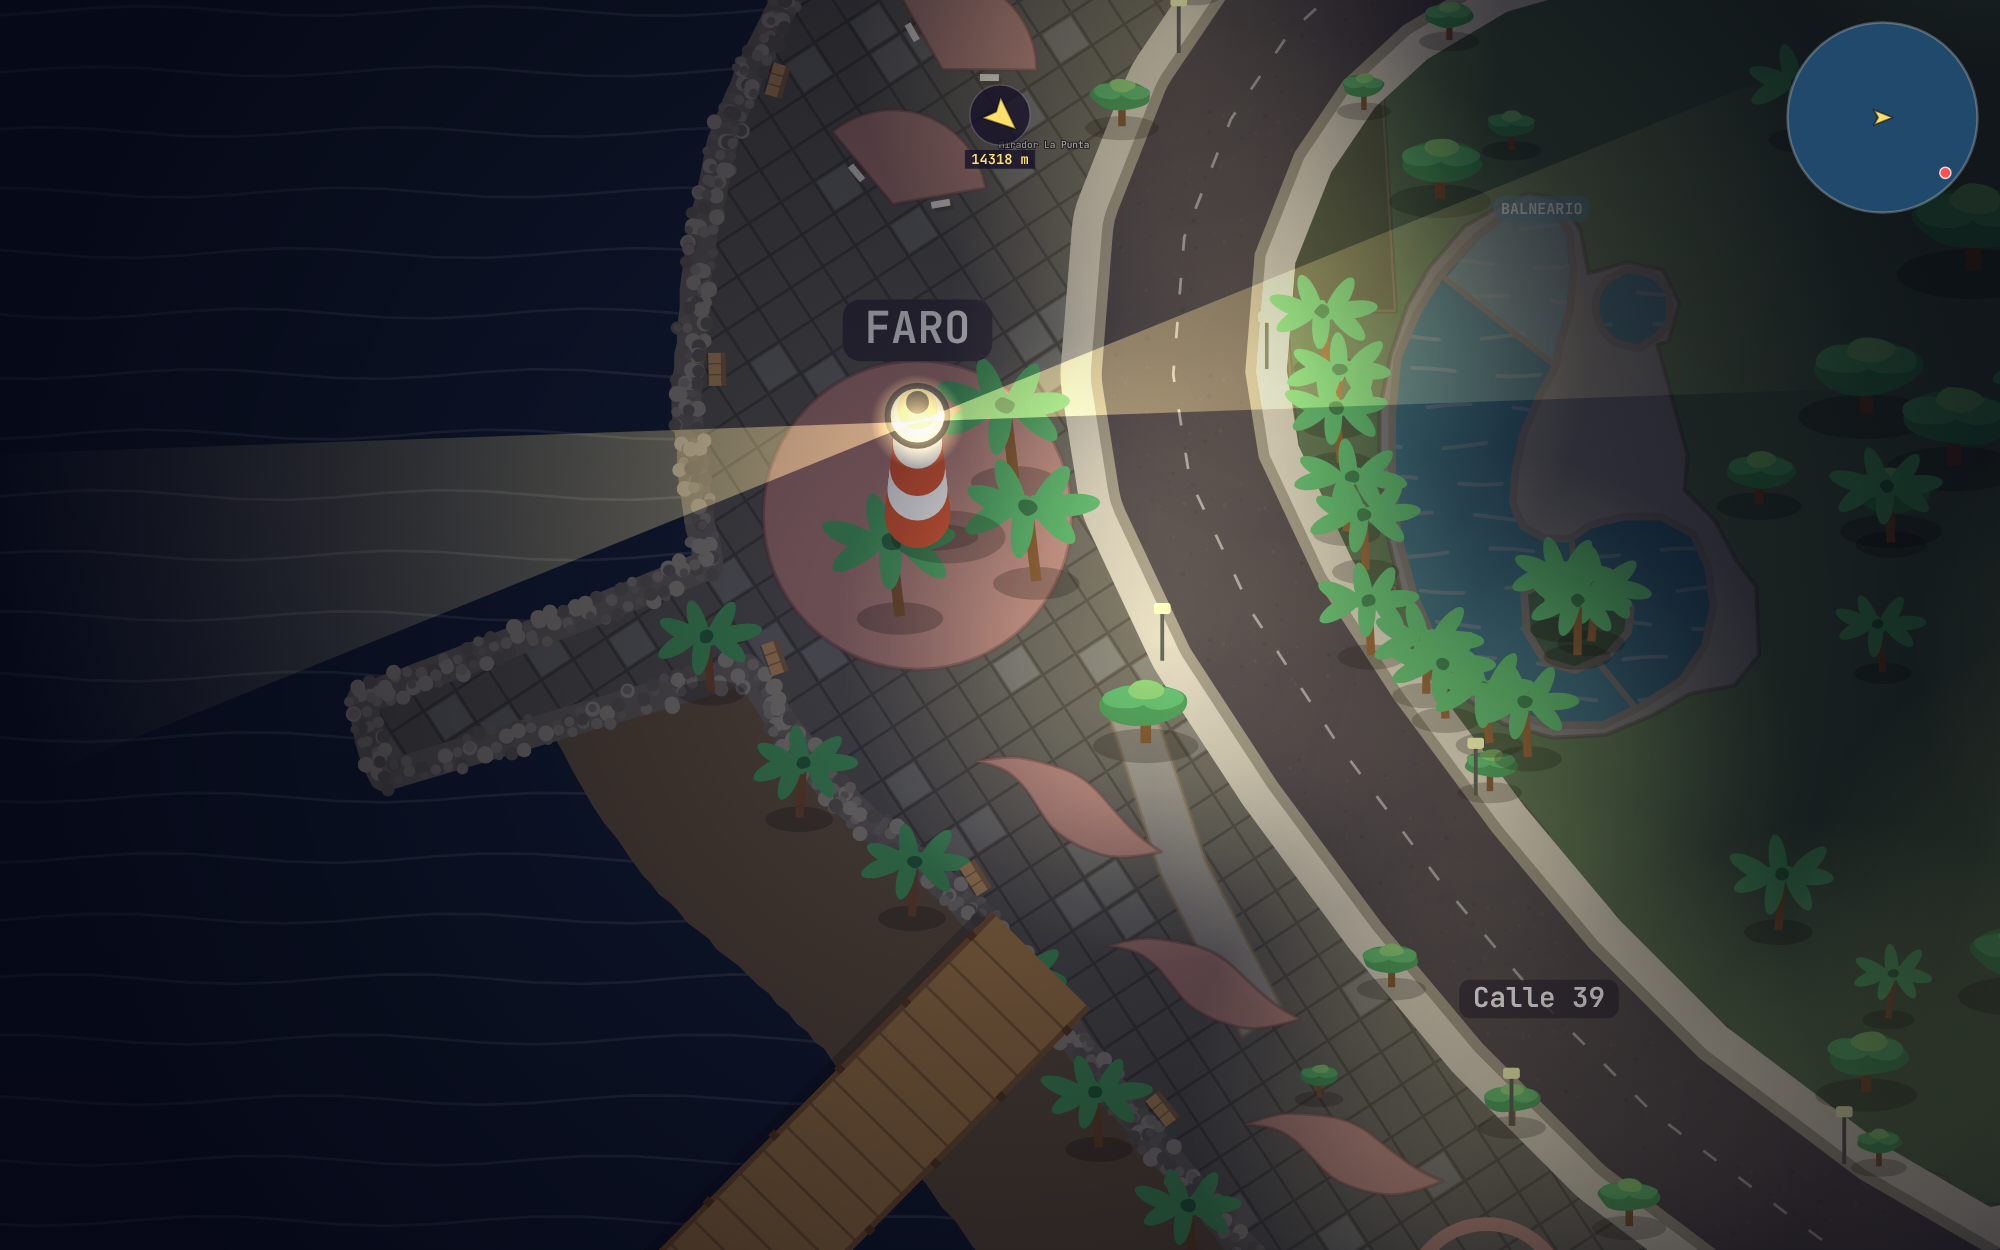
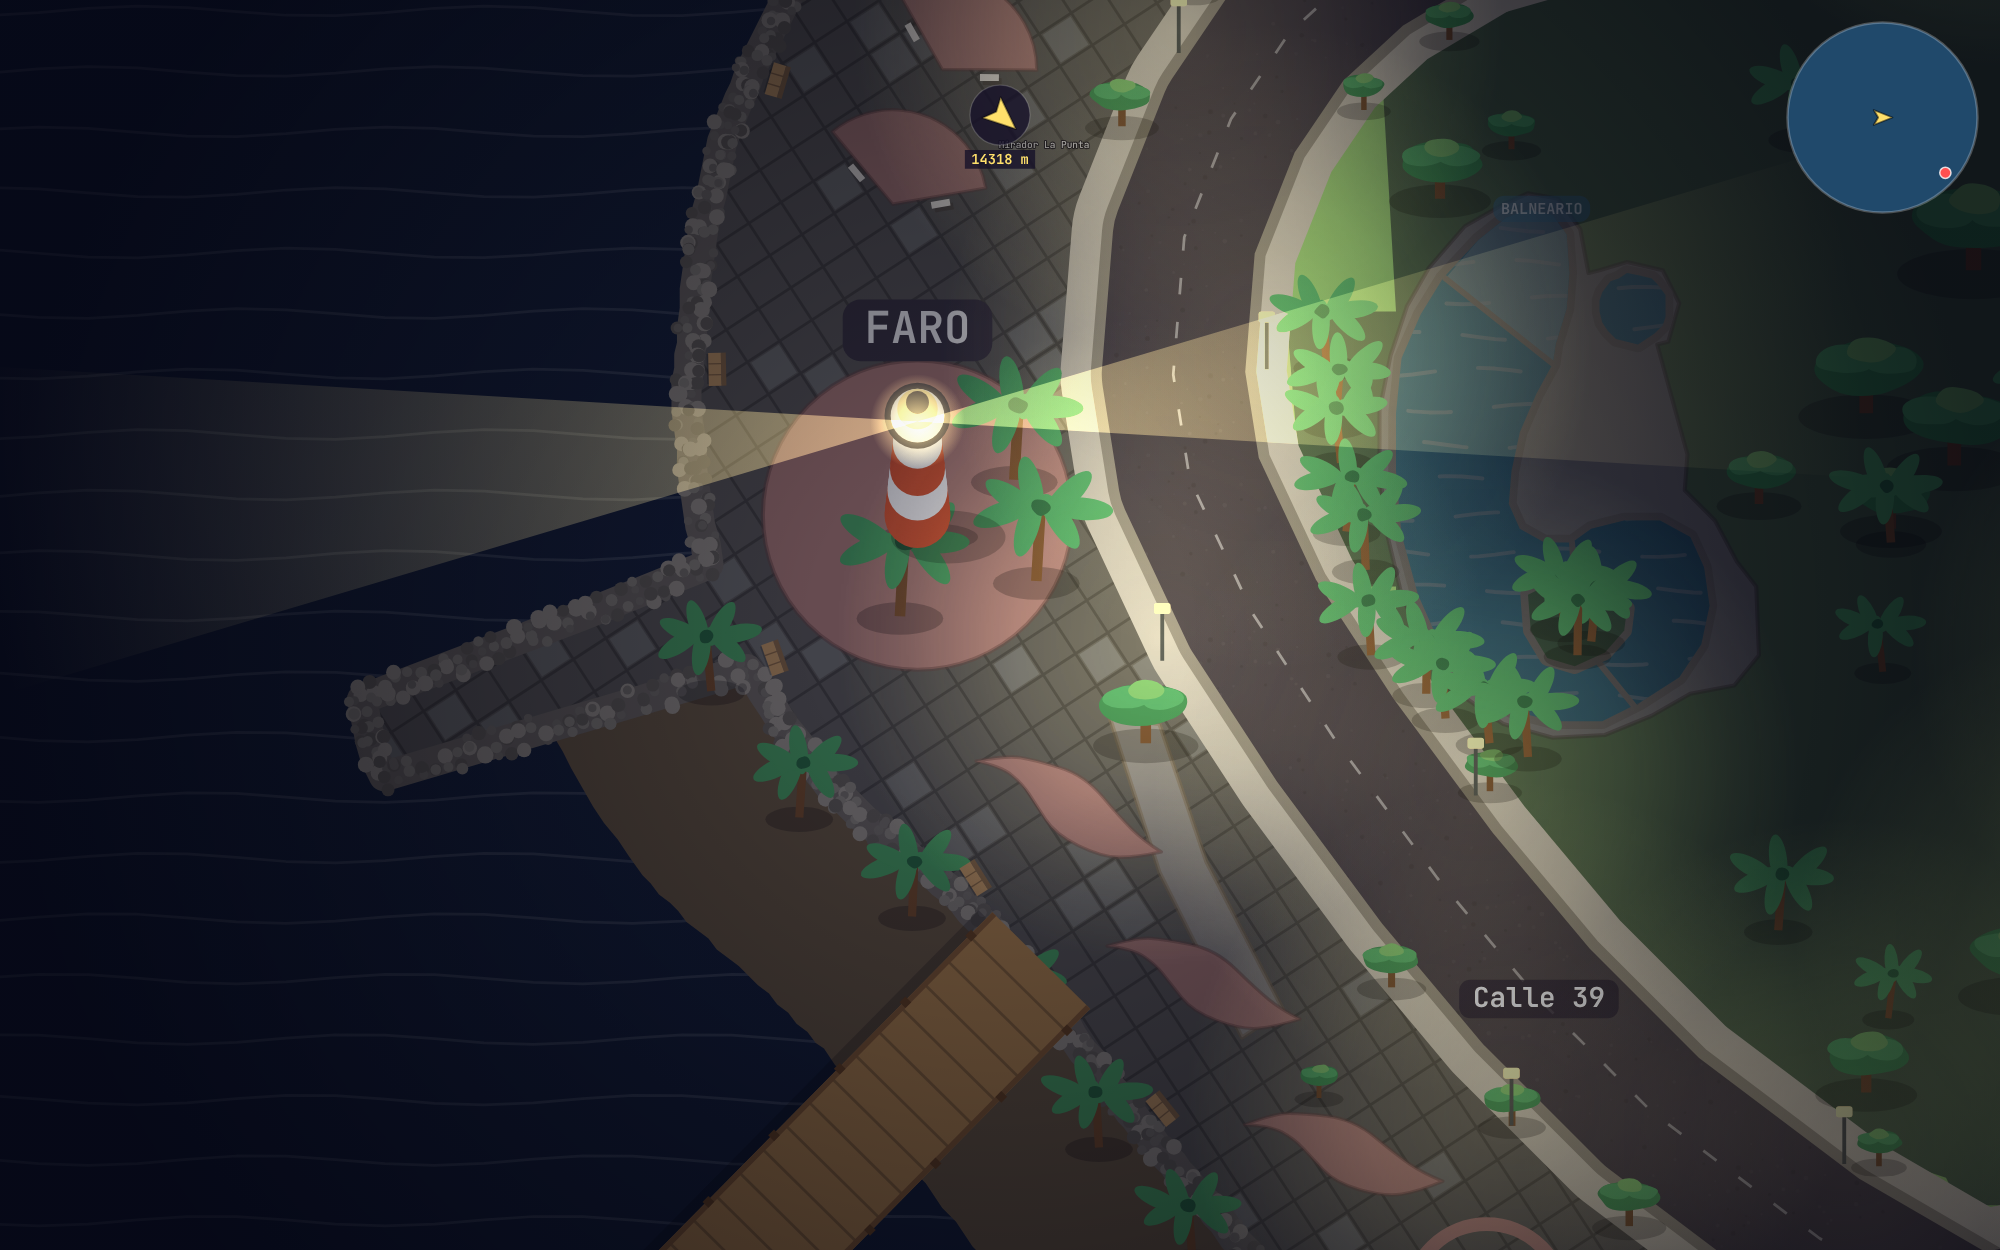
feat(world): malecón con la curva de la calle y la Concha, fila de kioscos al centro, camellón de una fila y recorrido completo
En el tramo de los kioscos el malecón se mide desde el cordón de la calle
de verdad, así que se curva con ella, y se abomba en una campana suave
alrededor de la Concha (tamaño fijo) sin mover la orilla del mar. Kioscos
y Cañones van en la línea media del malecón; la Capitanía se queda junto
a la calle y la caseta en su columna. Las letras van en una plazoleta
ovalada. Nuevo kiosco de papi-carne entre el churchill y el vigorón
(propuesta en punta.json). El camellón del León Cortés pasa de dos franjas
a una con una fila de árboles grandes. El césped del Balneario se mete
bajo las calles: sin franjas del suelo viejo.

Feria: el letrero de los chocones va debajo (sign.dxPx en feriaShapes) y
el borde este del tablado se corre 13,8 m (attractions.json → outlineLL)
para que el paso al lado iguale al de abajo.

docs/punta-recorrido/: diez cuadros del Faro al Parque Marino y su hoja.
Preview sin reconstruir, salvo el letrero de los chocones, que es arte.

Claude-Session: https://claude.ai/code/session_018GSydhWuDAT4g4GG3QKVY6

Changed region(s): [[0.403, 0.2808, 0.775, 0.468], [0.155, 0.312, 0.434, 0.5304], [0.558, 0.0936, 0.775, 0.2808]]

diff --git a/src/render/c2d/punta.js b/src/render/c2d/punta.js
@@ -210,7 +210,8 @@ function paintMonument(mo, ppm) {
     }
   } else if (mo.kind === "letters") {
     // la plazoleta redonda de adoquín, sobre el malecón
-    if (mo.r) { ctx.beginPath(); ctx.arc(0, 0, mo.r, 0, Math.PI * 2); ctx.fillStyle = C.plaza; ctx.fill(); ctx.strokeStyle = C.plazaEdge; ctx.lineWidth = 2; ctx.stroke(); }
+    if (mo.oval) { ctx.beginPath(); ctx.ellipse(0, 0, mo.oval[0], mo.oval[1], 0, 0, Math.PI * 2); ctx.fillStyle = C.plaza; ctx.fill(); ctx.strokeStyle = C.plazaEdge; ctx.lineWidth = 2; ctx.stroke(); }
+    else if (mo.r) { ctx.beginPath(); ctx.arc(0, 0, mo.r, 0, Math.PI * 2); ctx.fillStyle = C.plaza; ctx.fill(); ctx.strokeStyle = C.plazaEdge; ctx.lineWidth = 2; ctx.stroke(); }
     const text = mo.text || "", n = text.length, step = C.stepM * ppm, H = C.heightM * ppm, half = (n - 1) * step / 2, sag = step * 1.1;
     // la base curva: un arco bajo de concreto, y cada letra parada sobre él
     ctx.strokeStyle = C.baseEdge; ctx.lineWidth = H * 0.62; ctx.lineCap = "round";
@@ -241,8 +242,10 @@ function drawPunta(view, t = 0) {
   for (const line of P.riprap || []) paintRiprap(line, view);
   // el suelo, en el orden en que el mundo lo trae: terreno, deck, malecones…
   for (const g of P.grounds || []) {
-    ctx.fillStyle = g.use === "deck" ? POOL.deck : (M.ground[g.use] || M.ground.park);
-    ctx.fill(shape(g));
+    const ink = g.use === "deck" ? POOL.deck : (M.ground[g.use] || M.ground.park);
+    ctx.fillStyle = ink; ctx.fill(shape(g));
+    // `dilate`: el suelo se mete debajo de las calles que lo rodean (que lo tapan), sin cordón propio
+    if (g.dilate) { ctx.strokeStyle = ink; ctx.lineWidth = g.dilate * 2; ctx.stroke(g._path); continue; }
     ctx.strokeStyle = M.kerb; ctx.lineWidth = 1.5; ctx.stroke(g._path);
   }
   // los dos pisos: recortados a SU malecón, para que nada se salga a la calle

diff --git a/src/render/c2d/feriaShapes.js b/src/render/c2d/feriaShapes.js
@@ -488,7 +488,8 @@ export const FERIA_SHAPES = {
       text = food.label; fill = food.fill; bg = food.bg;
     }
     if (!text) return;
-    label(g, 0, (p.dyPx || -1.4) * r, text, fill, bg);
+    // `dxPx`: un juego GIRADO (los chocones, a 90°) pone su letrero de lado; con dx el letrero vuelve a quedar debajo
+    label(g, (p.dxPx ?? 0) * r, (p.dyPx ?? -1.4) * r, text, fill, bg);
   },
 };
 
